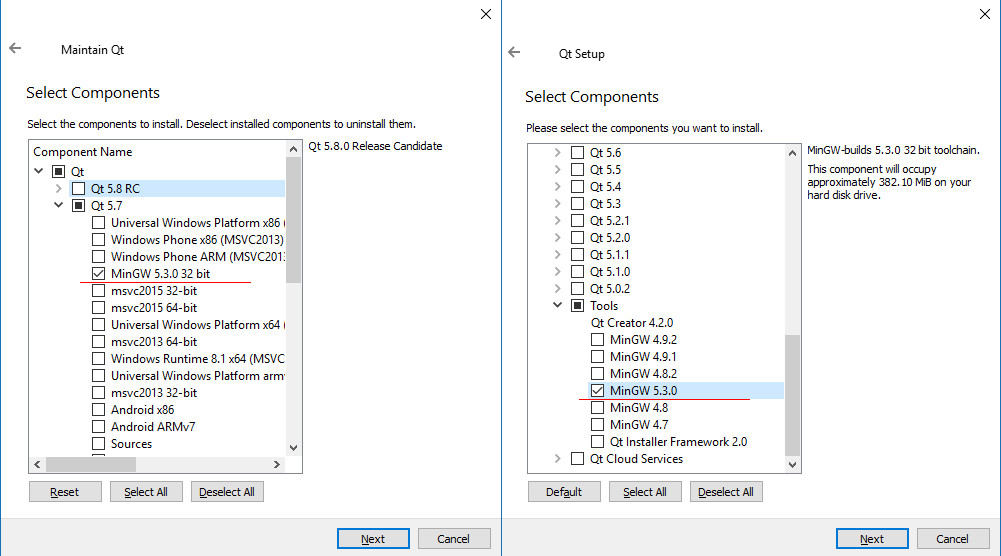
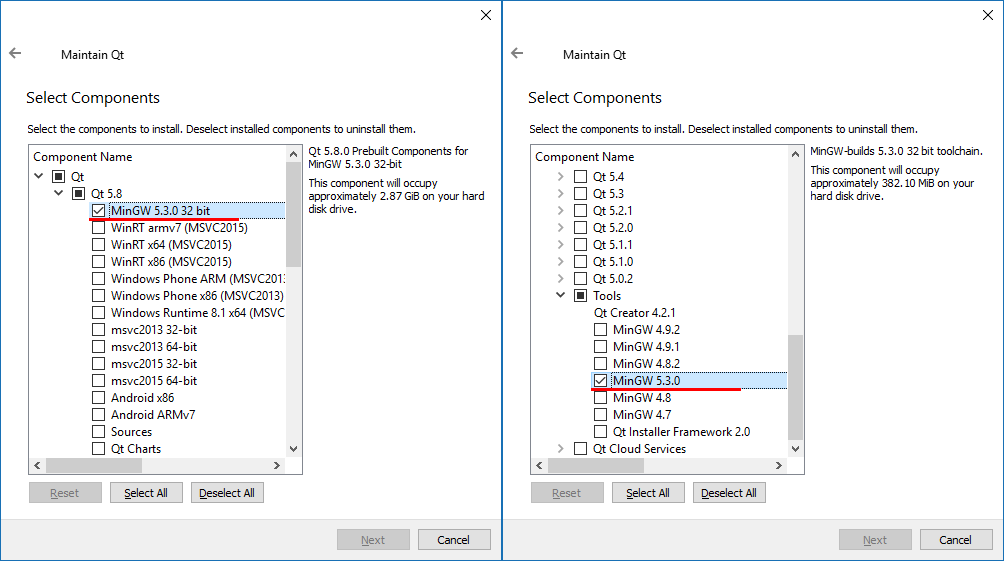
Updates images/qt-creator/windows_install_05.png
Auto commit by GitBook Editor

diff --git a/qt-creator/installation-windows.md b/qt-creator/installation-windows.md
@@ -8,7 +8,7 @@ preskočiť. V prípade, že sa rozhodnete túto možnosť využiť, účet Vám
   ![](/images/qt-creator/windows_install_02.png)
 
 2. Z komponent na výber potrebujete:
-  - Qt → Qt 5.7 → **MinGW 5.3.0 32 bit**
+  - Qt → Qt 5.8 → **MinGW 5.3.0 32 bit**
   - Tools → **MinGW 5.3**
      
     ![](/images/qt-creator/windows_install_05.png)
